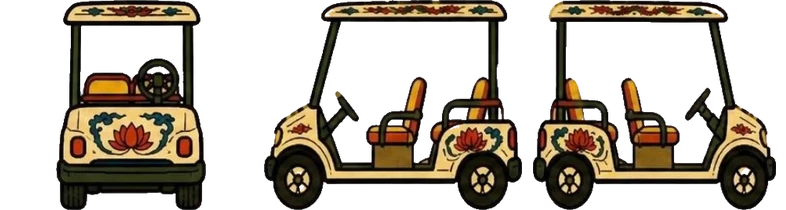
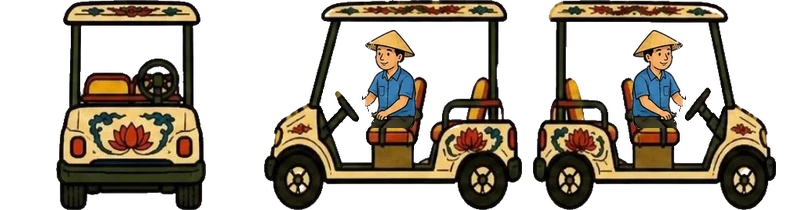
Immersion Town: give the electric buggy a driver
The buggy art had no one at the wheel. cut_frontal.py now seats the cyclo
driver (upper body, conical hat, blue shirt) in the front seat of both side
frames, with the steering wheel and seat cushion redrawn over him.

Changed region(s): [[0.3969, 0.1429, 0.5496, 0.6286], [0.7939, 0.1429, 0.916, 0.6286]]

diff --git a/immersion-town/index.html b/immersion-town/index.html
@@ -9,7 +9,7 @@
     <link rel="preconnect" href="https://fonts.googleapis.com">
     <link rel="preconnect" href="https://fonts.gstatic.com" crossorigin>
     <link href="https://fonts.googleapis.com/css2?family=Be+Vietnam+Pro:wght@500;600;700;800&family=Playfair+Display:wght@800;900&display=swap" rel="stylesheet">
-    <link rel="stylesheet" href="css/style.css?v=20261009g">
+    <link rel="stylesheet" href="css/style.css?v=20261009h">
 </head>
 
 <body>
@@ -82,9 +82,9 @@
         </div>
     </div>
 
-    <script src="js/core.js?v=20261009g" defer></script>
-    <script src="js/town.js?v=20261009g" defer></script>
-    <script src="js/game.js?v=20261009g" defer></script>
+    <script src="js/core.js?v=20261009h" defer></script>
+    <script src="js/town.js?v=20261009h" defer></script>
+    <script src="js/game.js?v=20261009h" defer></script>
 </body>
 
 </html>

diff --git a/immersion-town/js/town.js b/immersion-town/js/town.js
@@ -50,7 +50,7 @@
     wAnna: 'assets/chars/walk_anna.webp',
     wLiwei: 'assets/chars/walk_liwei.webp',
     wCyclo: 'assets/chars/walk_cyclo.webp',
-    wBuggy: 'assets/chars/walk_buggy.webp',
+    wBuggy: 'assets/chars/walk_buggy.webp?v=20261009b',
   };
 
   // Khách tham quan đi lại (đối tượng 'walker' trong bản đồ): dải khung tools/cut_frontal.py tạo ra,

diff --git a/immersion-town/tools/cut_frontal.py b/immersion-town/tools/cut_frontal.py
@@ -143,6 +143,34 @@ WALK_OPTS = {'guide': {'bg_tol': 0.1, 'pockets': False, 'ground': 0.93}, 'buggy'
 WALK_COLOR = {'guide': (200, 96, 132)}
 
 
+def add_driver(strip, cyclo, nl, nr, x0=103, top=30, scale=0.85):
+    """Xe buggy trong tranh không có người lái: lấy thân trên bác đạp xích lô (khung đi sang phải của walk_cyclo:
+    nón, đầu, áo, hai tay, quần; bỏ chân đạp, hành khách, ghế đỏ), đặt ngồi ghế trước, tay chạm vô-lăng. Vẽ lại vô-lăng
+    và đệm ghế của xe lên trên để người ngồi lọt vào xe. Khung đi sang trái gần đối xứng khung sang phải nên lật ngang,
+    ghép cùng vị trí rồi lật lại. Toạ độ tính trong một ô của dải khung (cao WALK_H)."""
+    cc = cyclo.width // 3
+    src = np.asarray(cyclo.crop((2 * cc, 0, 3 * cc, cyclo.height))).copy()
+    yy, xx = np.mgrid[:src.shape[0], :src.shape[1]]
+    keep = (xx >= 12) & (((yy < 82) & (xx < 81)) | ((yy >= 82) & (yy < 96) & (xx < 77)) | ((yy >= 96) & (yy < 120) & (xx < 70)))
+    r, g, b = (src[..., k].astype(int) for k in range(3))
+    keep &= ~((xx > 66) & (r > 1.8 * g) & (r > 1.8 * b) & (r < 170))   # mép ghế đỏ của xích lô cạnh bàn tay
+    src[..., 3] = np.where(keep, src[..., 3], 0)
+    driver = Image.fromarray(src).crop((12, 0, 81, 120))
+    driver = driver.resize((round(driver.width * scale), round(driver.height * scale)), Image.LANCZOS)
+    cw = strip.width // (1 + nl + nr)
+    out = strip.copy()
+    for i in range(1, 1 + nl + nr):
+        left = i <= nl
+        cell = strip.crop((i * cw, 0, (i + 1) * cw, strip.height))
+        cell = ImageOps.mirror(cell) if left else cell
+        done = cell.copy()
+        done.alpha_composite(driver, (x0, top))
+        for box in ((158, 84, 204, 126), (96, 128, 170, 150)):   # vô-lăng, đệm ghế trước
+            done.alpha_composite(cell.crop(box), box[:2])
+        out.paste(ImageOps.mirror(done) if left else done, (i * cw, 0))
+    return out
+
+
 def walk_strip(sheet, kind, front, left, right, color=None, **opts):
     cut = lambda box: cutlib.cutout(sheet, box, kind, keep_largest=True, **opts)  # noqa: E731
     f = cut(front)
@@ -175,6 +203,8 @@ if __name__ == '__main__':
     walk = []
     for who, (prefix, kind, front, left, right) in WALK.items():
         strip, nl, nr = walk_strip(source(prefix), kind, front, left, right, WALK_COLOR.get(who), **WALK_OPTS.get(who, {}))
+        if who == 'buggy':
+            strip = add_driver(strip, dict(walk)['cyclo'], nl, nr)
         cutlib.save_webp(strip, CHARS / f'walk_{who}.webp')
         walk.append((who, strip))
         print(f'walk_{who}: {strip.size}, 1 ô nhìn thẳng, {nl} ô sang trái, {nr} ô sang phải')
